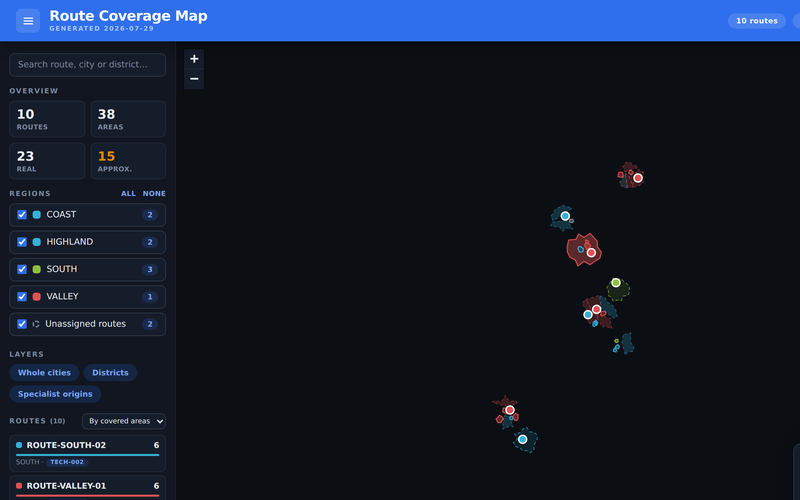
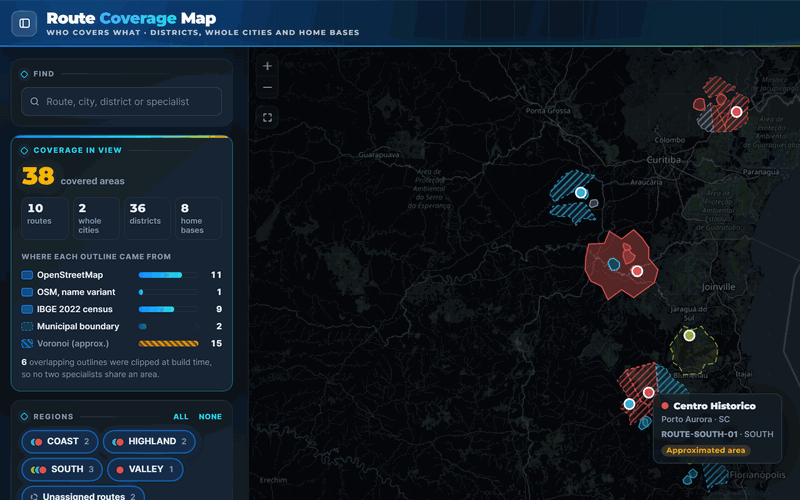
Prévia do Route Coverage Map com o visual novo do mapa
A captura vinha do layout antigo (cabeçalho azul, sem mapa base). Agora sai
do overview.png atual do mapaderotas: recorte 8:5 que para antes dos selos do
cabeçalho, 256 cores (87 KB) e texto alternativo descrevendo a tela nova.

diff --git a/tools/render_previews.py b/tools/render_previews.py
@@ -19,8 +19,14 @@ def font(size, weight=400, mono=False):
 
 
 def map_preview(source):
+    # overview.png is 1440x860 at 2x. The 8:5 crop from the top-left keeps the
+    # panel and the hover tip, stops before the header badges (cutting one in
+    # half looked broken) and scales text up for the half-width README cell.
     img = Image.open(source).convert('RGB')
-    img = img.crop((0, 0, 2400, 1500)).resize((W, H), Image.LANCZOS)
+    img = img.crop((0, 0, 2240, 1400)).resize((W, H), Image.LANCZOS)
+    # 256 colours (octree keeps the saturated route colours): the basemap
+    # tiles would otherwise make a ~400 KB PNG.
+    img = img.quantize(colors=256, method=Image.Quantize.FASTOCTREE, dither=Image.Dither.FLOYDSTEINBERG)
     img.save(ROOT / 'assets/preview-route-coverage.png', optimize=True)
 
 

diff --git a/README.md b/README.md
@@ -17,7 +17,7 @@ Construo **soluções com IA aplicada, Python e automação** para problemas rea
 <td width="50%" valign="top"><a href="https://github.com/JvFaraco/os-validator-demo"><img src="assets/preview-os-validator.png" alt="Terminal com a análise de uma O.S. fictícia: pacote sanitizado com nome e telefone mascarados, regras sem pendência, IA escolhendo entre 3 opções do catálogo com as conferências aprovadas, e decisão pronta para validação, com aprovação final humana." width="100%" /></a></td>
 <td width="50%" valign="top"><b>🤖 Validador de O.S. com IA</b><br>Versão pública, com dados fictícios, do validador que mantenho em produção. As regras determinísticas vêm primeiro. A IA lê a nota do técnico e escolhe de um catálogo fechado, com saída em JSON Schema. Dado pessoal não sai da máquina, e a aprovação final é sempre de uma pessoa.<br><br>A avaliação usa um gabarito rotulado à mão: o Claude Haiku acertou as 38 decisões do conjunto fictício, numa rodada de menos de 1 centavo de dólar.<br><code>Python</code> <code>LLM</code> <code>JSON Schema</code> <code>pytest</code> · <a href="https://github.com/JvFaraco/os-validator-demo">Código</a></td>
 </tr><tr>
-<td width="50%" valign="top"><a href="https://jvfaraco.github.io/mapaderotas/"><img src="assets/preview-route-coverage.png" alt="Captura da demo do Route Coverage Map: painel com totais de rotas e áreas, filtros por região e lista de rotas; ao lado, áreas de cobertura coloridas por região sobre um mapa escuro. Dados fictícios." width="100%" /></a><br><b>🗺 Route Coverage Map</b><br>De uma planilha de rotas a um mapa navegável: geocodificação, limites do IBGE e tratamento das áreas de cobertura.<br><code>Python</code> <code>Leaflet</code> <code>GIS</code> · <a href="https://jvfaraco.github.io/mapaderotas/">Demo</a> · <a href="https://github.com/JvFaraco/mapaderotas">Código</a></td>
+<td width="50%" valign="top"><a href="https://jvfaraco.github.io/mapaderotas/"><img src="assets/preview-route-coverage.png" alt="Captura da demo do Route Coverage Map: à esquerda, o total de áreas cobertas, de onde veio cada contorno e os filtros por região; à direita, áreas coloridas por rota sobre um mapa escuro, com as aproximadas hachuradas e a dica de uma delas aberta. Dados fictícios." width="100%" /></a><br><b>🗺 Route Coverage Map</b><br>De uma planilha de rotas a um mapa navegável: geocodificação, limites do IBGE e tratamento das áreas de cobertura.<br><code>Python</code> <code>Leaflet</code> <code>GIS</code> · <a href="https://jvfaraco.github.io/mapaderotas/">Demo</a> · <a href="https://github.com/JvFaraco/mapaderotas">Código</a></td>
 <td width="50%" valign="top"><a href="https://github.com/JvFaraco/quick-replies"><picture><source media="(prefers-reduced-motion: reduce)" srcset="assets/preview-quick-replies.png" /><img src="assets/preview-quick-replies.gif" alt="Demonstração da extensão: o atendente digita barra no campo de mensagem, escolhe uma resposta pronta e ela é inserida no campo, com saudação e nome fictícios." width="100%" /></picture></a><br><b>💬 Extensão de respostas rápidas</b><br>Extensão Chrome para quem atende em chat web: digite / no campo, escolha a resposta e insira com Tab. Biblioteca da equipe sincronizada por planilha; quem envia é sempre o atendente.<br><code>JavaScript</code> <code>Chrome MV3</code> <code>Playwright</code> · <a href="https://github.com/JvFaraco/quick-replies">Código</a> · <a href="https://github.com/JvFaraco/quick-replies/releases/latest">Baixar</a></td>
 </tr><tr>
 <td width="50%" valign="top"><a href="https://github.com/JvFaraco/bot-telegram"><img src="assets/preview-bot-alertas.png" alt="Ilustração de duas mensagens do bot no Telegram, com produto, preço, desconto, loja, cupom e link. Oferta e loja fictícias." width="100%" /></a><br><b>📬 Bot de alertas no Telegram</b><br>Monitoramento de ofertas com filtros de preço, desconto e palavras-chave. Envia alertas sem repetir notificações e roda pelo GitHub Actions.<br><code>Python</code> <code>Scraping</code> <code>Telegram API</code> · <a href="https://github.com/JvFaraco/bot-telegram">Código</a></td>
